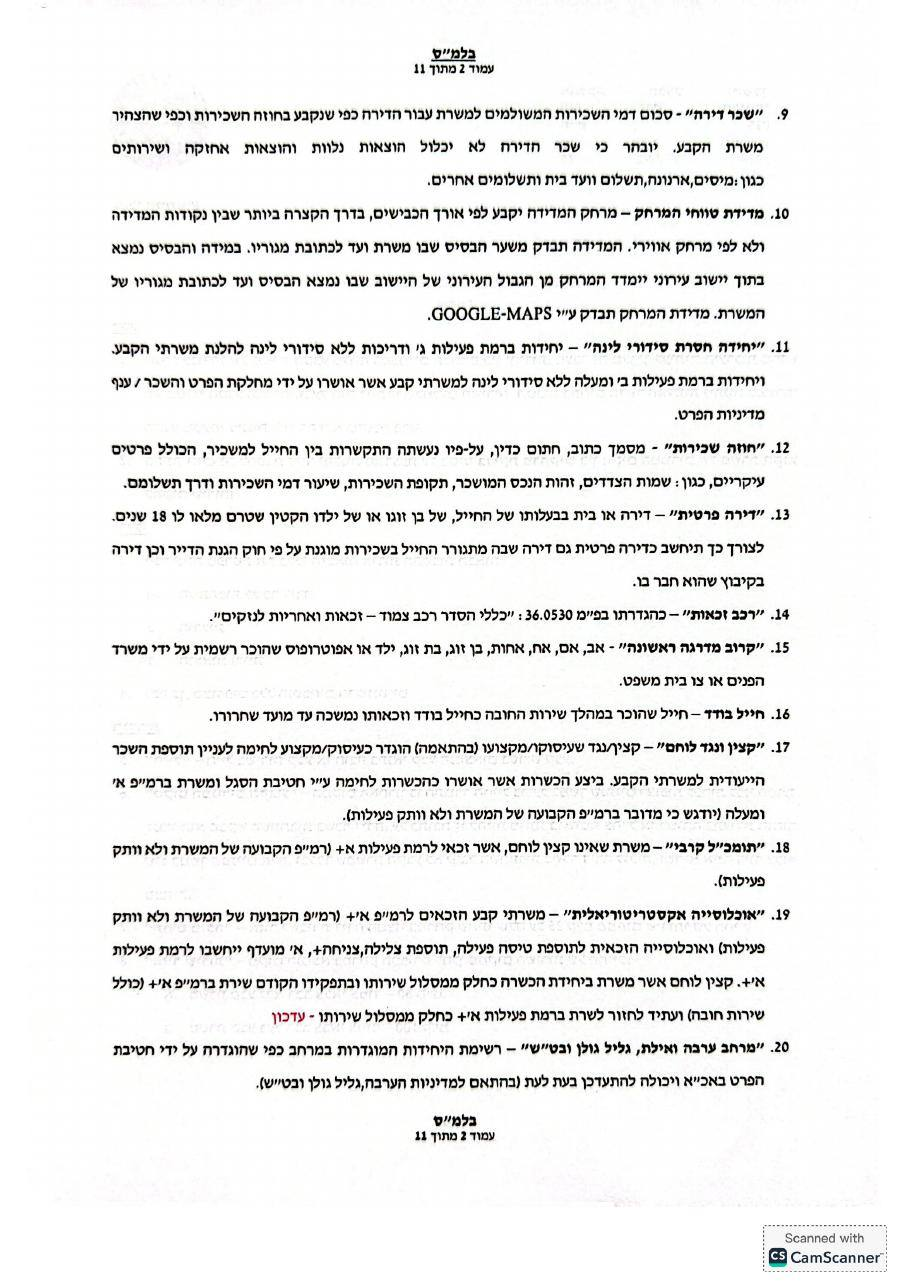
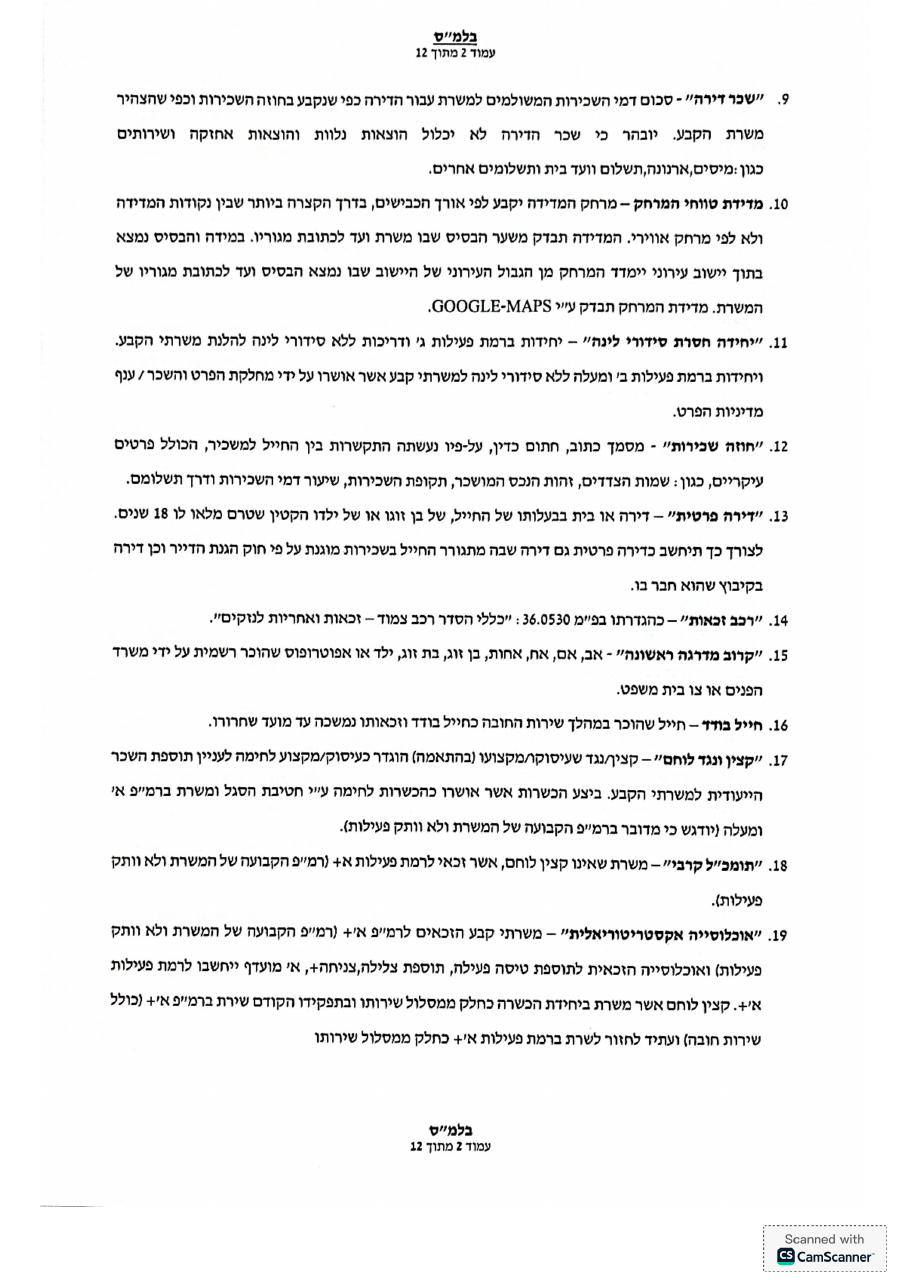
Rent policy update 3, add ALAH price update document
Claude-Session: https://claude.ai/code/session_017nMzCFmMGn8Hi8x9saegtD

Changed region(s): [[0.1231, 0.0, 0.8615, 0.9013], [0.8308, 0.9635, 0.9538, 0.9946]]

diff --git a/data.js b/data.js
@@ -111,14 +111,15 @@ window.TASH = {
   },
   {
    "title": "ערוצי סיוע כלכלי",
-   "html": "<p><strong>תווי קנייה אוטומטיים בחוגר- </strong>תווי קנייה הינם לרכש מזון ולמוצרים בסיסיים לבית (חל איסור על רכש אלכוהול וסיגריות). ההטבה נכנסת לחוגרו של החייל, ההטבה הזו הינה אוטומטית ונגזרת מזכאות חייל בודד / חייל זכאי סיוע / תשמ״ש /אח זכאי תשמ״ש. ההטבה הזו ניתנת לשימוש בסניפי כוורת, שופרסל, מגה בעיר ויינות ביתן.</p><h3>מי החיילים הזכאים</h3><p>חיילים בודדים, זכאי תשמ״ש, זכאי סיוע, הורים בכל רמות הפעילות וכן זכאי תשמ״ש נשוי וזכאי תשמ״ש אח ברמת פעילות א׳ ומעלה בלבד- הטבה זו באופן קבוע על סך 150 ש״ח. התווים יהיו בתוקף כ-60 ימים בחוגר ולאחר מכן יתאפסו.</p><p><strong>תווי קנייה חד פעמיים בחוגר- </strong>ההטבה תיינתן כמענה למצוקה כלכלית דחופה הדורשת מענה מיידי. החייל יפנה אל סגל הת״ש על מנת לפתוח את הבקשה ולהביא אישורים בהתאם.</p><p><strong>תווי קנייה מתמשכים בחוגר- </strong>זכאות כספית בסכום קבוע המתחדש מדי חודש למספר חודשים. ההטבה תיינתן לחוגרו של החייל למימוש בסניפי רשת כוורת, שופרסל, מגה בעיר ויינות ביתן.</p><h3>אישורים נדרשים</h3><ol><li>ריכוז יתרות החייל</li><li>עובר ושב 3 חודשים אחרונים של החייל</li><li>פירוט כרטיס אשראי 3 חודשים אחרונים של החייל</li><li>ריכוז יתרות הורי החייל</li><li>עובר ושב 3 חודשים אחרונים של הורי החייל</li><li>אישורים על חובות / הלוואות במידה ויש</li></ol><h2>מענק חד פעמי / מתמשך</h2><p>מענה לבעיה כלכלית של החייל/ משפחתו. יינתן באופן חד פעמי או בסכום קבוע למספר חודשים לפי שיקול דעת קצינת ת״ש.</p><h3>אישורים נדרשים</h3><ol><li>ריכוז יתרות החייל</li><li>עובר ושב 3 חודשים אחרונים של החייל</li><li>פירוט כרטיס אשראי 3 חודשים אחרונים של החייל</li><li>ריכוז יתרות הורי החייל</li><li>עובר ושב 3 חודשים אחרונים של הורי החייל</li><li>אישורים על חובות / הלוואות במידה ויש</li></ol><h2>מענק בזק</h2><p>מענה ראשוני ומיידי לבעיה כלכלית דחופה של החייל / משפחתו, נכנס תוך 72 שעות לחשבון הבנק של החייל לאור המצב. החייל יפנה אל סגל הת״ש לפתיחת הבקשה.</p><p><strong>קרן הסיוע אל״ח- </strong>סיוע במוצרי חשמל, ריהוט, מוצרי יסוד בסיסיים, המיועד לחייל המעלה מצוקה כלכלית. הזכאות כוללת הובלה של מוצרים למקום מגוריו של החייל.</p><h3>אישורים נדרשים</h3><ol><li>ריכוז יתרות החייל</li><li>עובר ושב 3 חודשים אחרונים של החייל</li><li>פירוט כרטיס אשראי 3 חודשים אחרונים של החייל</li><li>ריכוז יתרות הורי החייל</li><li>עובר ושב 3 חודשים אחרונים של הורי החייל</li><li>אישורים על חובות / הלוואות במידה ויש</li><li>ביקור בית על ידי סגל הת״ש</li></ol><h2>הלוואה מיידית</h2><p>מענה לבעיה כלכלית שנובעת מהוצאה חד פעמית שאינה מצדיקה מתן מענק, או סיוע בסגירת חובות. הסכום ייכנס לחייל תוך 5 ימי עבודה. תקרת הסיוע הינה עד 1,200 ש״ח אשר ינוכה מתלוש המשכורת בכל חודש על סך 100 ש״ח עד לסיום ההלוואה.</p><h2>מענק אכ״א חריג</h2><p>סיוע למצוקה כלכלית קשה חריגה כאשר מוצו כל ערוצי סיוע הכלכלי האפשריים במסגרת היחידה. תקרת הסיוע הינה עד 10,000 ש״ח.</p><h3>אישורים נדרשים</h3><ol><li>ריכוז יתרות החייל</li><li>עובר ושב 3 חודשים אחרונים של החייל</li><li>פירוט כרטיס אשראי 3 חודשים אחרונים של החייל</li><li>ריכוז יתרות הורי החייל</li><li>עובר ושב 3 חודשים אחרונים של הורי החייל</li><li>אישורים על חובות / הלוואות במידה ויש</li><li>ביקור בית על ידי סגל הת״ש</li><li>המלצת מפקד ישיר</li><li>המלצת משקית ת״ש + מפקד יחידה</li><li>כל אישור תומך היכול לשפוך אור אודות אישור הבקשה</li><li>ראיון קצינת ת״ש</li></ol>",
+   "html": "<p><strong>תווי קנייה אוטומטיים בחוגר- </strong>תווי קנייה הינם לרכש מזון ולמוצרים בסיסיים לבית (חל איסור על רכש אלכוהול וסיגריות). ההטבה נכנסת לחוגרו של החייל, ההטבה הזו הינה אוטומטית ונגזרת מזכאות חייל בודד / חייל זכאי סיוע / תשמ״ש /אח זכאי תשמ״ש. ההטבה הזו ניתנת לשימוש בסניפי כוורת, שופרסל, מגה בעיר ויינות ביתן.</p><h3>מי החיילים הזכאים</h3><p>חיילים בודדים, זכאי תשמ״ש, זכאי סיוע, הורים בכל רמות הפעילות וכן זכאי תשמ״ש נשוי וזכאי תשמ״ש אח ברמת פעילות א׳ ומעלה בלבד- הטבה זו באופן קבוע על סך 150 ש״ח. התווים יהיו בתוקף כ-60 ימים בחוגר ולאחר מכן יתאפסו.</p><p><strong>תווי קנייה חד פעמיים בחוגר- </strong>ההטבה תיינתן כמענה למצוקה כלכלית דחופה הדורשת מענה מיידי. החייל יפנה אל סגל הת״ש על מנת לפתוח את הבקשה ולהביא אישורים בהתאם.</p><p><strong>תווי קנייה מתמשכים בחוגר- </strong>זכאות כספית בסכום קבוע המתחדש מדי חודש למספר חודשים. ההטבה תיינתן לחוגרו של החייל למימוש בסניפי רשת כוורת, שופרסל, מגה בעיר ויינות ביתן.</p><h3>אישורים נדרשים</h3><ol><li>ריכוז יתרות החייל</li><li>עובר ושב 3 חודשים אחרונים של החייל</li><li>פירוט כרטיס אשראי 3 חודשים אחרונים של החייל</li><li>ריכוז יתרות הורי החייל</li><li>עובר ושב 3 חודשים אחרונים של הורי החייל</li><li>אישורים על חובות / הלוואות במידה ויש</li></ol><h2>מענק חד פעמי / מתמשך</h2><p>מענה לבעיה כלכלית של החייל/ משפחתו. יינתן באופן חד פעמי או בסכום קבוע למספר חודשים לפי שיקול דעת קצינת ת״ש.</p><h3>אישורים נדרשים</h3><ol><li>ריכוז יתרות החייל</li><li>עובר ושב 3 חודשים אחרונים של החייל</li><li>פירוט כרטיס אשראי 3 חודשים אחרונים של החייל</li><li>ריכוז יתרות הורי החייל</li><li>עובר ושב 3 חודשים אחרונים של הורי החייל</li><li>אישורים על חובות / הלוואות במידה ויש</li></ol><h2>מענק בזק</h2><p>מענה ראשוני ומיידי לבעיה כלכלית דחופה של החייל / משפחתו, נכנס תוך 72 שעות לחשבון הבנק של החייל לאור המצב. החייל יפנה אל סגל הת״ש לפתיחת הבקשה.</p><p><strong>קרן הסיוע אל״ח- </strong>סיוע במוצרי חשמל, ריהוט, מוצרי יסוד בסיסיים, המיועד לחייל המעלה מצוקה כלכלית. הזכאות כוללת הובלה של מוצרים למקום מגוריו של החייל. רשימת המוצרים והמחירים המעודכנים (נובמבר 2026) נמצאת במסמך המלא בתחתית הדף.</p><h3>אישורים נדרשים</h3><ol><li>ריכוז יתרות החייל</li><li>עובר ושב 3 חודשים אחרונים של החייל</li><li>פירוט כרטיס אשראי 3 חודשים אחרונים של החייל</li><li>ריכוז יתרות הורי החייל</li><li>עובר ושב 3 חודשים אחרונים של הורי החייל</li><li>אישורים על חובות / הלוואות במידה ויש</li><li>ביקור בית על ידי סגל הת״ש</li></ol><h2>הלוואה מיידית</h2><p>מענה לבעיה כלכלית שנובעת מהוצאה חד פעמית שאינה מצדיקה מתן מענק, או סיוע בסגירת חובות. הסכום ייכנס לחייל תוך 5 ימי עבודה. תקרת הסיוע הינה עד 1,200 ש״ח אשר ינוכה מתלוש המשכורת בכל חודש על סך 100 ש״ח עד לסיום ההלוואה.</p><h2>מענק אכ״א חריג</h2><p>סיוע למצוקה כלכלית קשה חריגה כאשר מוצו כל ערוצי סיוע הכלכלי האפשריים במסגרת היחידה. תקרת הסיוע הינה עד 10,000 ש״ח.</p><h3>אישורים נדרשים</h3><ol><li>ריכוז יתרות החייל</li><li>עובר ושב 3 חודשים אחרונים של החייל</li><li>פירוט כרטיס אשראי 3 חודשים אחרונים של החייל</li><li>ריכוז יתרות הורי החייל</li><li>עובר ושב 3 חודשים אחרונים של הורי החייל</li><li>אישורים על חובות / הלוואות במידה ויש</li><li>ביקור בית על ידי סגל הת״ש</li><li>המלצת מפקד ישיר</li><li>המלצת משקית ת״ש + מפקד יחידה</li><li>כל אישור תומך היכול לשפוך אור אודות אישור הבקשה</li><li>ראיון קצינת ת״ש</li></ol>",
    "updated": "יוני 2026 · ספר ניהול משרד הת״ש",
    "sum": {
     "who": "חייל במצוקה כלכלית, וקבוצות שזכאיות לתווים אוטומטיים",
     "what": "תווי קנייה, מענקים, מענק בזק, הלוואה, ומענק חריג עד 10,000 ש״ח",
     "need": "אישורים כלכליים שלך ושל ההורים",
     "how": "דרך משקית הת״ש. מענק בזק נכנס תוך 72 שעות"
-   }
+   },
+   "doc": "alah"
   },
   {
    "title": "טיפולי שיניים",
@@ -1354,7 +1355,7 @@ window.TASH = {
      "הוצאות נלוות",
      "הובלות"
     ],
-    "html": "<p>צה״ל משתתף בשכר הדירה של משרתי קבע שגרים רחוק מהיחידה ושוכרים דירה קרוב אליה. ההשתתפות היא 100% משכר הדירה, עד התקרה. ההטבה ניתנת בגלל הכוננות ליחידה, ולכן היא תלויה במרחקים.</p>\n<h2>תנאי המרחק</h2>\n<ul>\n<li>הבית הקבוע רחוק לפחות 60 ק״מ מהיחידה, או 100 ק״מ למי שיש לו רכב צבאי צמוד</li>\n<li>הדירה השכורה נמצאת עד 25 ק״מ מהיחידה</li>\n<li>הבית הקבוע הוא המקום שגרתם בו בפועל שנתיים רצופות לפחות. הכתובת צריכה להיות רשומה בצה״ל או בתעודת הזהות</li>\n<li>המרחק נמדד בכביש, בדרך הקצרה ביותר, משער הבסיס ועד הכתובת. לא בקו אווירי</li>\n</ul>\n<h2>מי זכאי ולכמה זמן</h2>\n<div class=\"tbl\"><table>\n<tr><th>מי</th><th>תנאי</th><th>משך</th></tr>\n<tr><td>רמת פעילות ג׳–ד׳, ביחידה בלי סידורי לינה</td><td>עומדים בתנאי המרחק</td><td>עד 8 שנים</td></tr>\n<tr><td>רמת פעילות א׳–ב׳: נשואים, או רווקים מגיל 26</td><td>העבירו את המגורים עד 25 ק״מ מהיחידה, ועומדים בתנאי המרחק</td><td>עד 8 שנים</td></tr>\n<tr><td>רמת פעילות א׳+</td><td>מגיל 22, בלי בדיקת מרחקים, כל עוד אין לכם דירה בבעלותכם עד 25 ק״מ מהיחידה</td><td>עד 8 שנים</td></tr>\n<tr><td>קצין או נגד לוחם</td><td>עומדים בתנאי המרחק</td><td>ללא הגבלה, כל עוד אתם קצין או נגד לוחם</td></tr>\n<tr><td>תומכ״ל קרבי</td><td>שירתם יותר מ-4 שנים ברמת פעילות א׳+, ואתם היום ביחידה שמזכה ברמת פעילות א׳+. בלי בדיקת מרחקים</td><td>עד 10 שנים</td></tr>\n<tr><td>חייל בודד שנכנס לקבע</td><td>שנה ראשונה: ממשרד הביטחון. שנה שנייה: דירה עד 25 ק״מ מהיחידה. משנה שלישית: תנאי המרחק</td><td>עד 8 שנים בסך הכול</td></tr>\n<tr><td>משרתים ביחידות הערבה ואילת</td><td>שוכרים בין היחידה לאילת, כולל אילת</td><td>עד 10 שנים</td></tr>\n<tr><td>משרתים בגליל-גולן או במרחב הבט״ש</td><td>העבירו את המגורים עד 25 ק״מ מהיחידה, ועומדים בתנאי המרחק</td><td>עד 10 שנים</td></tr>\n</table></div>\n<p>קצין לוחם שמשרת ביחידת הכשרה כחלק ממסלול השירות, ובתפקיד הקודם שירת ברמת פעילות א׳+, זכאי בלי בדיקת מרחקים.</p>\n<h2>התקרה לחודש</h2>\n<div class=\"tbl\"><table>\n<tr><th>אזור</th><th>רווק</th><th>נשוי</th><th>נשוי + 1–2</th><th>נשוי + 3 ומעלה</th></tr>\n<tr><td>א׳ · מרכז וירושלים</td><td>1,386 ₪</td><td>1,848 ₪</td><td>2,310 ₪</td><td>2,772 ₪</td></tr>\n<tr><td>ב׳ · צפון</td><td>831 ₪</td><td>1,108 ₪</td><td>1,385 ₪</td><td>1,662 ₪</td></tr>\n<tr><td>ג׳ · דרום</td><td>965 ₪</td><td>1,287 ₪</td><td>1,609 ₪</td><td>1,930 ₪</td></tr>\n<tr><td>ד׳ · אילת וערבה</td><td>1,524 ₪</td><td>2,445 ₪</td><td>3,045 ₪</td><td>3,956 ₪</td></tr>\n</table></div>\n<p>גרושים עם ילד אחד ומעלה מקבלים לפי ההרכב של נשוי.</p>\n<h3>חשוב לדעת</h3>\n<ul>\n<li>משלמים פחות מהתקרה? ההחזר הוא לפי מה ששילמתם בפועל</li>\n<li>שכר הדירה לא כולל ארנונה, ועד בית, חשבונות ואחזקה</li>\n<li>שוכרים דירה מקרוב משפחה מדרגה ראשונה? אין זכאות</li>\n<li>שנות שכר הדירה ושנות הדיור הצבאי נספרות בנפרד</li>\n<li>שני בני זוג בקבע ששוכרים יחד: רק אחד מקבל את ההחזר, לפי בחירתכם. לכל אחד יש 8 שנים משלו</li>\n<li>בן או בת הזוג בשירות חובה: אפשר לקבל השלמה עד תקרת הקבע</li>\n<li>בן או בת הזוג מקבלים השתתפות בשכר דירה ממקום העבודה: מביאים אישור על הסכום, ומקבלים רק את ההשלמה עד התקרה</li>\n<li>מקבלים הטבת מס על יישוב מזכה ושוכרים ביישוב אחר? אין כפל הטבות</li>\n<li>השתנה משהו בפרטים שלכם? מעדכנים את תא הדיור במופ״ת תוך 14 יום</li>\n<li>הובלה: פעם אחת בשירות, לכניסה לדירה ולפינוי שלה. קצין או נגד לוחם: עד 5 פעמים, ולא יותר מפעם בשנה</li>\n<li>הוצאות נלוות למי שאושרה לו הובלה: עד 1,000 ₪ על פירוק והרכבת ארונות, אריזה, התקנת מזגן או גז, ניקיון, הדברה, צביעה ועוד. מגישים עם קבלות עד 3 חודשים מהמעבר</li>\n</ul>\n<h3>איך מגישים</h3>\n<p>לפני שחותמים על חוזה, כדאי לבדוק עם סגל הת״ש ביחידה שאתם זכאים ומה גובה ההשתתפות. את הבקשה מגישים בטופס המקוון, בקובצי PDF של עד 3 מ״ב. אחרי ההגשה מגיע מייל אוטומטי שמאשר שהבקשה התקבלה.</p>\n<h3>אישורים נדרשים</h3>\n<ol>\n<li>חוזה שכירות תקין וחתום</li>\n<li>מסמך ארנונה שמופיע בו גודל הדירה</li>\n<li>בסאבלט: חוזה הסאבלט, החוזה של המשכיר עם בעל הדירה, והצהרה על מקום המגורים ועל כך ששכר הדירה לא כולל הוצאות נלוות</li>\n<li>גרים עם שותפים: הצהרה על החלק שלכם בשכר הדירה</li>\n</ol>",
+    "html": "<p>צה״ל משתתף בשכר הדירה של משרתי קבע שגרים רחוק מהיחידה ושוכרים דירה קרוב אליה. ההשתתפות היא 100% משכר הדירה, עד התקרה. ההטבה ניתנת בגלל הכוננות ליחידה, ולכן היא תלויה במרחקים.</p>\n<h2>תנאי המרחק</h2>\n<ul>\n<li>הבית הקבוע רחוק לפחות 60 ק״מ מהיחידה, או 100 ק״מ למי שיש לו רכב צבאי צמוד</li>\n<li>הדירה השכורה נמצאת עד 25 ק״מ מהיחידה</li>\n<li>הבית הקבוע הוא המקום שגרתם בו בפועל שנתיים רצופות לפחות. הכתובת צריכה להיות רשומה בצה״ל או בתעודת הזהות</li>\n<li>המרחק נמדד בכביש, בדרך הקצרה ביותר, משער הבסיס ועד הכתובת. לא בקו אווירי</li>\n</ul>\n<h2>מי זכאי ולכמה זמן</h2>\n<div class=\"tbl\"><table>\n<tr><th>מי</th><th>תנאי</th><th>משך</th></tr>\n<tr><td>רמת פעילות ג׳–ד׳, ביחידה בלי סידורי לינה</td><td>עומדים בתנאי המרחק</td><td>עד 8 שנים</td></tr>\n<tr><td>רמת פעילות א׳–ב׳: נשואים, או רווקים מגיל 26</td><td>העבירו את המגורים עד 25 ק״מ מהיחידה, ועומדים בתנאי המרחק</td><td>עד 8 שנים</td></tr>\n<tr><td>רמת פעילות א׳+</td><td>מגיל 22, בלי בדיקת מרחקים, כל עוד אין לכם דירה בבעלותכם עד 25 ק״מ מהיחידה</td><td>עד 8 שנים</td></tr>\n<tr><td>קצין או נגד לוחם</td><td>עומדים בתנאי המרחק</td><td>ללא הגבלה, כל עוד אתם קצין או נגד לוחם</td></tr>\n<tr><td>תומכ״ל קרבי</td><td>שירתם יותר מ-4 שנים ברמת פעילות א׳+, ואתם היום ביחידה שמזכה ברמת פעילות א׳+. בלי בדיקת מרחקים</td><td>עד 10 שנים</td></tr>\n<tr><td>חייל בודד שנכנס לקבע</td><td>שנה ראשונה: ממשרד הביטחון. שנה שנייה: דירה עד 25 ק״מ מהיחידה. משנה שלישית: תנאי המרחק</td><td>עד 8 שנים בסך הכול</td></tr>\n<tr><td>משרתים ביחידות הערבה ואילת</td><td>שוכרים בין היחידה לאילת, כולל אילת</td><td>עד 10 שנים</td></tr>\n<tr><td>משרתים בגליל-גולן או במרחב הבט״ש</td><td>העבירו את המגורים עד 25 ק״מ מהיחידה, ועומדים בתנאי המרחק</td><td>עד 10 שנים</td></tr>\n</table></div>\n<p>קצין לוחם שמשרת ביחידת הכשרה כחלק ממסלול השירות, ובתפקיד הקודם שירת ברמת פעילות א׳+, זכאי בלי בדיקת מרחקים.</p>\n<h3>עדכון 3, נובמבר 2026</h3><ul>\n<li>חייל בודד, שנה שנייה בקבע: ההשתתפות ניתנת רק למי שמימש שנה מלאה של השתתפות בשכר דירה ממשרד הביטחון</li>\n<li>חייל בודד שגר בשנתיים האחרונות בדיור צבאי (בית החייל, דירות אל״ח או אימוץ בקיבוץ), או קיבל שכר דירה מצה״ל, יכול להיות זכאי. תא דיור קבע במופ״ת בוחן לפי ההטבה שהייתה לו בחובה</li>\n<li>יוצאים ללימודים אקדמיים מלאים מטעם צה״ל? מוסד הלימודים נחשב מקום השירות לבדיקת המרחקים</li>\n<li>לוחמים בהכשרה (מכללה לפיקוד טקטי, פו״ם) ששירתו קודם ברמת פעילות א׳+ ממשיכים לקבל שכר דירה בזמן ההכשרה</li>\n<li>שכר הדירה לא כולל ארנונה, ועד בית ושאר הוצאות. גרים עם שותפים? מצהירים על החלק שלכם</li>\n</ul><h2>התקרה לחודש</h2>\n<div class=\"tbl\"><table>\n<tr><th>אזור</th><th>רווק</th><th>נשוי</th><th>נשוי + 1–2</th><th>נשוי + 3 ומעלה</th></tr>\n<tr><td>א׳ · מרכז וירושלים</td><td>1,386 ₪</td><td>1,848 ₪</td><td>2,310 ₪</td><td>2,772 ₪</td></tr>\n<tr><td>ב׳ · צפון</td><td>831 ₪</td><td>1,108 ₪</td><td>1,385 ₪</td><td>1,662 ₪</td></tr>\n<tr><td>ג׳ · דרום</td><td>965 ₪</td><td>1,287 ₪</td><td>1,609 ₪</td><td>1,930 ₪</td></tr>\n<tr><td>ד׳ · אילת וערבה</td><td>1,524 ₪</td><td>2,445 ₪</td><td>3,045 ₪</td><td>3,956 ₪</td></tr>\n</table></div>\n<p>גרושים עם ילד אחד ומעלה מקבלים לפי ההרכב של נשוי.</p>\n<h3>חשוב לדעת</h3>\n<ul>\n<li>משלמים פחות מהתקרה? ההחזר הוא לפי מה ששילמתם בפועל</li>\n<li>שכר הדירה לא כולל ארנונה, ועד בית, חשבונות ואחזקה</li>\n<li>שוכרים דירה מקרוב משפחה מדרגה ראשונה? אין זכאות</li>\n<li>שנות שכר הדירה ושנות הדיור הצבאי נספרות בנפרד</li>\n<li>שני בני זוג בקבע ששוכרים יחד: רק אחד מקבל את ההחזר, לפי בחירתכם. לכל אחד יש 8 שנים משלו</li>\n<li>בן או בת הזוג בשירות חובה: אפשר לקבל השלמה עד תקרת הקבע</li>\n<li>בן או בת הזוג מקבלים השתתפות בשכר דירה ממקום העבודה: מביאים אישור על הסכום, ומקבלים רק את ההשלמה עד התקרה</li>\n<li>מקבלים הטבת מס על יישוב מזכה ושוכרים ביישוב אחר? אין כפל הטבות</li>\n<li>השתנה משהו בפרטים שלכם? מעדכנים את תא הדיור במופ״ת תוך 14 יום</li>\n<li>הובלה: פעם אחת בשירות, לכניסה לדירה ולפינוי שלה. קצין או נגד לוחם: עד 5 פעמים, ולא יותר מפעם בשנה</li>\n<li>הוצאות נלוות למי שאושרה לו הובלה: עד 1,000 ₪ על פירוק והרכבת ארונות, אריזה, התקנת מזגן או גז, ניקיון, הדברה, צביעה ועוד. מגישים עם קבלות עד 3 חודשים מהמעבר</li>\n</ul>\n<h3>איך מגישים</h3>\n<p>לפני שחותמים על חוזה, כדאי לבדוק עם סגל הת״ש ביחידה שאתם זכאים ומה גובה ההשתתפות. את הבקשה מגישים בטופס המקוון, בקובצי PDF של עד 3 מ״ב. אחרי ההגשה מגיע מייל אוטומטי שמאשר שהבקשה התקבלה.</p>\n<h3>אישורים נדרשים</h3>\n<ol>\n<li>חוזה שכירות תקין וחתום</li>\n<li>מסמך ארנונה שמופיע בו גודל הדירה</li>\n<li>בסאבלט: חוזה הסאבלט, החוזה של המשכיר עם בעל הדירה, והצהרה על מקום המגורים ועל כך ששכר הדירה לא כולל הוצאות נלוות</li>\n<li>גרים עם שותפים: הצהרה על החלק שלכם בשכר הדירה</li>\n</ol>",
     "doc": "rent",
     "group": "דיור ומעבר",
     "sum": {
@@ -2379,9 +2380,9 @@ window.TASH = {
    "group": "כללי"
   },
   "rent": {
-   "title": "מדיניות שכר דירה למשרתי קבע, עדכון 2",
-   "date": "אפריל 2026",
-   "pages": 9
+   "title": "מדיניות שכר דירה למשרתי קבע, עדכון 3",
+   "date": "נובמבר 2026",
+   "pages": 11
   },
   "galil": {
    "title": "מעטפת הפרט גליל-גולן 2026",
@@ -2464,6 +2465,12 @@ window.TASH = {
    "date": "2026",
    "pages": 6,
    "group": "תקציבים ליחידות"
+  },
+  "alah": {
+   "title": "עדכון מחירי מוצרי אל״ח, קופת הידידות",
+   "date": "נובמבר 2026",
+   "pages": 2,
+   "group": "חובה"
   }
  }
 };

diff --git a/index.html b/index.html
@@ -294,7 +294,7 @@ footer{border-top:1px solid var(--line);padding:20px 0 32px;color:var(--text-3);
   </defs>
 </svg>
 
-<script src="data.js?v=20261116b"></script>
+<script src="data.js?v=20261118a"></script>
 <script>
 (function(){
   const D = window.TASH;
